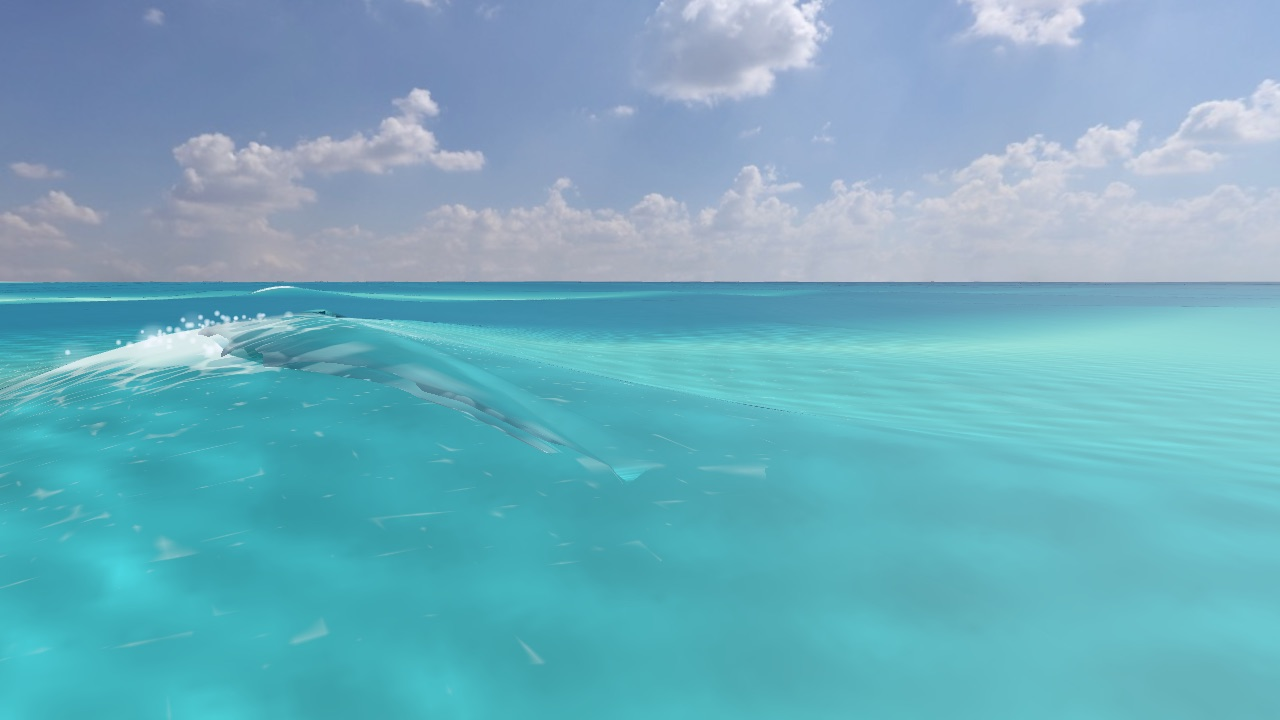
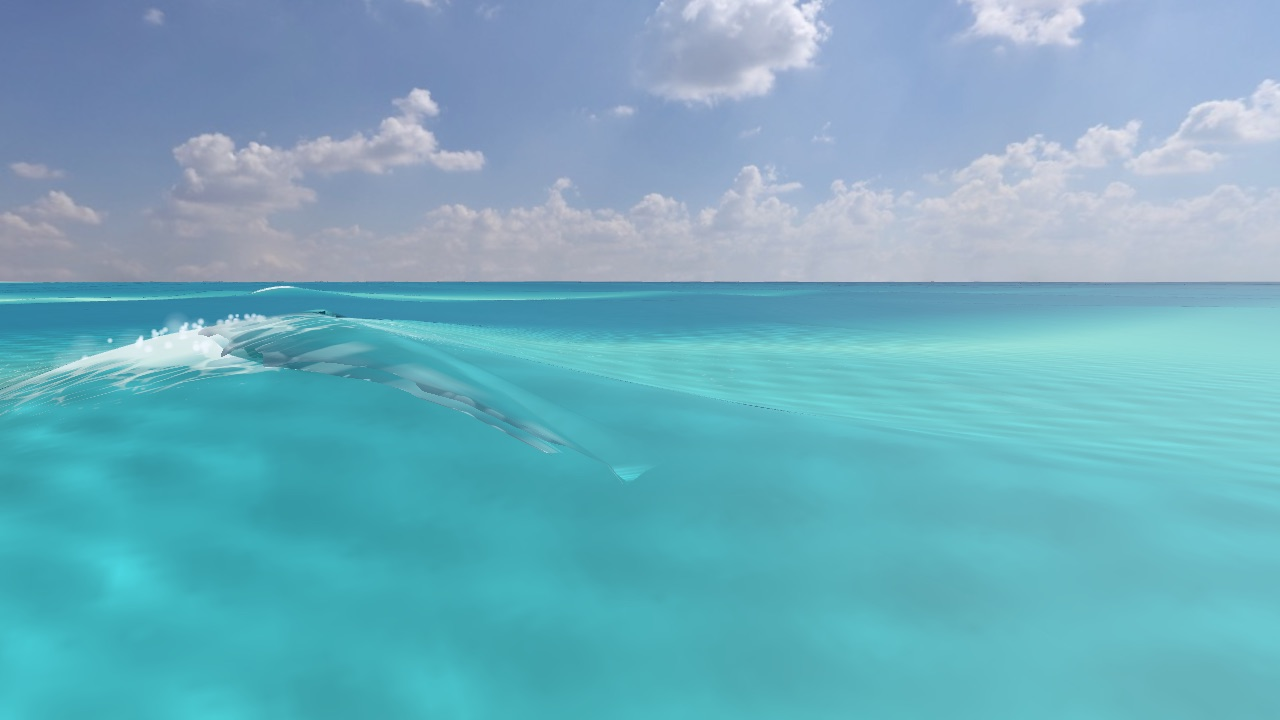
docs: the spilling lip's round 3: a clean shoulder at Big, new stills and strip

diff --git a/docs/research/canyon-lip-2026-10-11/README.md b/docs/research/canyon-lip-2026-10-11/README.md
@@ -2,17 +2,17 @@
 
 The owner's playtest of 2026-10-11, at the Canyon: "I don't want the wave to become white then have the spilling; spilling should be like a tube animation but as a separator that the wave is breaking."
 
-What was built, on `claude/canyon-lip` (three passes: the first build, the coordinator's look pass, and round 2 after the water-physics advisor's review):
+What was built, on `claude/canyon-lip` (four passes: the first build, the coordinator's look pass, round 2 after the water-physics advisor's review, and round 3 for the shoulder at Big):
 
 - **A small rolling lip.** At each wave's spilling front the crest sharpens and its tip is thrown out and falls down the face. It runs along the crest at the S2 front's pace (the 55° peel), just behind the front's tip. Each column goes through the break's own sequence as the peel passes it.
-- **A clean shoulder ahead of it.** No whitewater is drawn ahead of the front. The drawn foam drifts shoreward and its lace lasts 6 s rather than 15 s, so the last waves' lace clears from the shoulder at Medium.
+- **A clean shoulder ahead of it.** No whitewater is drawn ahead of the front. The drawn foam drifts shoreward and its lace lasts 6 s rather than 15 s. On each wave's unbroken shoulder ahead of its front, the drawn lace is held back (round 3), so the shoulder is clean green water at Medium and Big.
 - **White that trails the break.** No white is drawn on a column's face until its curl lands. A bright patch then shows where it lands, with a splash of drops. The white grows down the face and reaches the face's foot 2 s later.
 
 It is **look only**. The water, the solver's breaking strength, the S2 whitewater (which feeds the air and the roar), the breaking the rider feels, the roller table (`writeTable`: push, froth drag, water entry, lens top), the aeration the rider floats in (`aerateBores` → `voidFraction`) and its turbulence, the bores the air reads, and the lip impacts (the sound and the reports) are byte for byte the same with the lip on and off. A test checks this every step over 5 s of Canyon Medium, the foam's drift and the curl's splash included. The curl collides with nothing. `heightAt` and the drawn heights are unchanged. Only the Canyon has the lip; every other spot draws exactly as before, in both looks.
 
 ## The stills
 
-Canyon, Medium swell (Hs 1.4 m, Tp 11 s, 0°, s = 150), seed 1, in the page, at sea time 133.47 s: a set wave about 2 m high peeling toward +x at the take-off. They were shot from the dev water sheet (`?inpage&waterSheet&spot=canyon&swell=medium&direction=0&spreading=150`, with `&spillingCurl=0` for the before), midday, in the Rich look unless noted. The before and after show the same wave at the same moment, from the same cameras, because the switch changes nothing felt. The after stills are round 2's.
+Canyon, Medium swell (Hs 1.4 m, Tp 11 s, 0°, s = 150), seed 1, in the page, at sea time 133.47 s: a set wave about 2 m high peeling toward +x at the take-off. They were shot from the dev water sheet (`?inpage&waterSheet&spot=canyon&swell=medium&direction=0&spreading=150`, with `&spillingCurl=0` for the before), midday, in the Rich look unless noted. The before and after show the same wave at the same moment, from the same cameras, because the switch changes nothing felt. The after stills are round 3's. The Medium motion strip is round 2's: round 3 changed only the lace on the shoulder, which was faint at Medium.
 
 | | Before (`spillingCurl` off) | After |
 | --- | --- | --- |
@@ -21,7 +21,7 @@ Canyon, Medium swell (Hs 1.4 m, Tp 11 s, 0°, s = 150), seed 1, in the page, at 
 
 - **From the beach** (after): ![](after-beach.jpg)
 - **Beside the curl, Classic look** (after): ![](after-beside-classic.jpg)
-- **Big** (`&swell=big`, sea time 201.9 s; this wave is 1.5–1.6 m high, Big's sets reach 2.5 m), beside and from the lineup: ![](after-big-beside.jpg) ![](after-big-lineup.jpg)
+- **Big** (`&swell=big`, sea time 201.89 s; this wave is 1.5–1.6 m high, Big's sets reach 2.5 m), beside and from the lineup: ![](after-big-beside.jpg) ![](after-big-lineup.jpg)
 
 **Motion strips.** 8 frames, 0.15 s apart, read left to right then down. Each is from a fixed camera beside the take-off column (x −30) as a curl passes:
 
@@ -40,10 +40,14 @@ Canyon, Medium swell (Hs 1.4 m, Tp 11 s, 0°, s = 150), seed 1, in the page, at 
   - **The tip.** The ragged tip is too small on screen to see at these distances.
   - **From the beach.** The curl is subtle: a thin lip on the crest beside the white.
   - **Classic.** It reads darker teal, with its inner side showing through.
-- **After, Big:**
-  - The curl is small beside the white patch.
-  - A lace network still covers the face and shoulder ahead of the front. The drawn foam there is 0.05–0.15 (measured): lace from the inshore bores, carried seaward by the depth-averaged return flow. The shoreward drift and the 6 s lace did not clear it at Big; they did at Medium.
+- **After, Big (round 3):**
+  - The lace network that covered the face and the water ahead of the front in round 2 is gone. The shoulder reads as clean green water: smooth, with the face's own ripples and shading, and the lip and the white patch behind the front.
+  - Behind the front, the white patch, its lace trail and the whitewater inshore are as they were.
+  - The strip shows the shoulder staying clean as the white patch spreads along the crest. It doesn't flicker or pop.
+  - The bright blotches low on the right of the strip are the sun's glints on the near water. The snapshot's drawn foam there is 0.
+  - The curl is still small beside the white patch.
   - The dark dashes in the Big stills are in the water without the curl too, so they are not the curl's.
+- **After, Medium (round 3):** nothing regressed. The lip, the landing white and the trail behind are unchanged. The few faint lace flecks left on the shoulder in round 2 are gone.
 
 ## The numbers and their sources
 
@@ -60,6 +64,7 @@ Canyon, Medium swell (Hs 1.4 m, Tp 11 s, 0°, s = 150), seed 1, in the page, at 
 | The splash | At touchdown, per column: 0.3 of the jet (`SPLASH_UP.share`), on at the breaker celerity, down at 3.2 m/s | The advisor, round 2 (about 1.0 C forward, 2.5–4 m/s down) |
 | Surface drift of the drawn foam | Q_s = 0.18 H_b² m²/s over the still depth, at most 0.4 m/s, where the still depth is under 1.3 h_b (Q_s 1.3 m²/s at Big) | Hansen & Svendsen 1984; the advisor's Q_s ≈ 1.2–1.5 m²/s at Big and 0.3–0.4 m/s |
 | Drawn lace | 6 s (the Canyon's was 15 s) | The coordinator's ruling, round 2 |
+| The shoulder held back | Along each wave's crest line, up to 30 m ahead of its front, faded in over 3 m from the front. Across shore, from 2 m behind the crest to 12 m or 5 H_b ahead of it, whichever is more, faded over 3 m at both ends. The lace fades with a 0.1 s e-folding time | The coordinator's ruling, round 3; extents set by eye and by the measurement below |
 | Streaks | Two flow-map layers half a 0.45 s period apart; scrolled along the lip at 0.4 m/s near the crest to 3.2 m/s at the tip; 0.3 m apart in world x, 1.2 m long | Surf's Up course notes p. 80; Vlachos 2010; the advisor (2–4 lip thicknesses apart, 4:1) |
 | Ragged tip | Fingers cut from the tip's last fifth, 0.45 m period in world x; the tip's froth varied with the same noise | Surf's Up's lip trains; the advisor (0.3–0.6 m) |
 | Along the crest (the stills' wave) | 0.17 s per metre (a 5.7 m/s front), curl standing over about 7 columns, the face's foot (the lens's toe) 7 m | Measured. Advisor: 0.175 s/m; 2–4 m of open curl, then about 3 m collapsing |
@@ -84,13 +89,26 @@ Canyon, Medium swell (Hs 1.4 m, Tp 11 s, 0°, s = 150), seed 1, in the page, at 
   - **The drawn air.** Rich's churn and plume show only under drawn foam, and only in columns whose curl is still young. A developed bore draws its air as before.
 - **The splash.** Each touchdown pushes a `LipImpact` (kind 1, a splash-up) into `drawnImpacts`, which only the drawn spray reads. It never enters `lipImpacts`, so the water, the foam's air, the sound and the reports never see it. Classic throws no drops from a splash-up, the rule Classic's spray has kept since G9, so the splash shows in Rich only.
 - **The foam's drift.** The foam field takes the drift on top of the current for its own departure points only. The advection stencil it records, which the aeration reuses, stays the current's: a test checks the stencils are identical with and without the drift.
-- **The crest tracker** (Wave Lab Follow, `crestTracker.ts`) reads the drawn foam from the snapshot. With the lip, the breaking edge it slides to is the white's edge, a few metres behind the curl, rather than S2's early foam. Its tests pass unchanged.
+- **The shoulder** (round 3; `SpillingCurl.clearShoulder`, called each step before the foam's own step):
+  - **Where.** For each wave, it finds the crest at the front, then follows the crest line column by column ahead of the front, taking the highest water within 2 m of the last column's crest. It stops where the water stands less than 0.3 of the front's crest height above still water: there is no shoulder there.
+  - **What it holds back.** On a band along that line, it fades the drawn foam (`dense` and `residual`) with a 0.1 s e-folding time, and zeroes the drawn whitewater, the foam's source. That source is the solver's weak breaking ahead of a front, which no onset has joined to a wave yet.
+  - **Edges.** Every edge of the band is smoothstepped over 3 m, and the fade is a decay rather than a cut, so nothing pops or flickers as the band moves.
+  - **What it leaves.** Behind each front nothing changes, so the whitewater and its lace trail are as they were.
+  - **Felt.** Nothing felt changes. The foam is drawn only, and the bores the air reads come from the felt whitewater. The felt-identity test passes with it on.
+  - **Measured.** At the take-off, the mean drawn foam on the shoulder 3–15 m ahead of each front, from 1 m behind its crest to 8 m ahead:
+    - **Medium:** 0.0000 over 83 samples, max 0.00001;
+    - **Big:** 0.0000 over 24 samples, max 0.0000;
+    - **Without the lip:** 0.22 at Medium and 0.17 at Big.
+    - The samples span 30 s of sea, taken every 8 frames.
+    - A test holds each sample at or under 0.02 at both sizes.
+- **The crest tracker** (Wave Lab Follow, `crestTracker.ts`) reads the drawn foam from the snapshot. With the lip, the breaking edge it slides to is the white's edge, a few metres behind the curl, rather than S2's early foam. The shoulder's clearing is ahead of the front, so it doesn't move that edge. Its tests pass unchanged after round 3.
 
 **Cost** (node timings on this M1 Air):
 
 - The look's step and splash: about 0.01 ms per step.
 - The snapshot's slices: about 0.03 ms (worker).
 - The foam's drift: +0.2 ms per step on the foam stage (2.26–2.30 → 2.47–2.48 ms in the page's CPU run).
+- The shoulder's clearing (round 3): 0.035 ms per step at Medium and 0.026 ms at Big.
 - Building the ribbon on the page: 0.063 ms for 20 slices and 0.164 ms at the 56-slice maximum, cheaper than the look pass (0.082 and 0.225 ms) because each slice samples the face fewer times. The ribbon is rebuilt once per snapshot, not per frame.
 - The GPU draws one mesh of at most 1,152 vertices with the water's sheet shading, plus two value-noise layers for the streaks and one for the tip. GPU cost was not measured; I estimate it as small.
 
@@ -121,12 +139,13 @@ Canyon, Medium swell (Hs 1.4 m, Tp 11 s, 0°, s = 150), seed 1, in the page, at 
   - the landing flash (0.15 s);
   - the splash's share (0.3) and fall speed (3.2 m/s).
 - **The foam's drift and lace.** The drift's flux constant (0.18) and reach (1.3 h_b), and the 6 s lace.
+- **The shoulder's band** (round 3). Its reach (30 m), its extent across shore (2 m behind the crest, 12 m or 5 H_b ahead, whichever is more), its 3 m fades, its 0.1 s e-folding time, and the 0.3 crest height where the shoulder ends.
 - **The curl's direction and the air rule.** The curl's direction is held within 30° of the shore's normal. The drawn air reaches full strength under foam 0.5 thick.
 
 ## Open checks for the owner (no rider tests were run)
 
 - **Does it read as water spilling and rolling?** It should read as a small lip thrown off the crest just behind the front, a white landing behind it, and a clean shoulder ahead, rather than a glassy awning or a shape sliding along. The motion needs judging in motion: the streaks' fall and each column's sequence can't be read from stills.
-- **The shoulder at Big.** At Big, lace from the inshore bores still covers it. Next options, in order: a stronger drawn drift where the face steepens, then holding back the residual lace on the face of a wave about to break (both look only).
+- **The shoulder** (round 3). It is now clean at Medium and Big. Check in play that the band's far edge (12 m or 5 H_b seaward of the crest, whichever is more) never shows as a line in the lace on the water beyond, and that the shoulder looks right at the Canyon's other sizes.
 - **The white's pace.** Is 2 s from touchdown to the face's foot right, and is the landing white bright enough?
 - **Classic, light and tiers.** Classic's darker teal lip, dawn and sunset light, Small, and the GPU tier.
 - **Nothing felt changed**, so the ride itself should feel exactly as before. Worth confirming on the board, since the white now arrives later than the push.

diff --git a/docs/research/water-physics/consult-log.md b/docs/research/water-physics/consult-log.md
@@ -4,6 +4,7 @@ What other sessions asked about wave shape, the advice they got and what came of
 
 | Date | Session | Question | Advice and outcome |
 | --- | --- | --- | --- |
+| 2026-10-11 | Canyon spilling lip, round 3 (lace on the shoulder at Big) | Round 2 read well at Medium, but at Big a honeycomb lace (drawn foam 0.05–0.15) still covered the face and the water ahead of the front: lace from the inshore bores, carried seaward by the return flow. The shoreward drift and the 6 s lace did not clear it. | No advisor consult. The coordinator's ruling: hold back the drawn lace on the unbroken shoulder ahead of each front, look only, with fades over a few metres and no flicker; target drawn foam ≤ 0.02 at the take-off at Medium and Big. Built (`SpillingCurl.clearShoulder`): along each wave's crest line up to 30 m ahead of its front, from 2 m behind the crest to max(12 m, 5 H_b) ahead, 3 m smoothstep edges; the drawn foam fades with a 0.1 s e-fold and the drawn whitewater source is zeroed there (unjoined weak breaking ahead of a front). Nothing felt changed (felt-identity test), other spots unchanged, crest tracker tests pass. Measured at the take-off: 0.0000 at Medium (83 samples) and Big (24), against 0.22 and 0.17 without the lip; 0.026–0.035 ms per step. Stills: docs/research/canyon-lip-2026-10-11/. |
 | 2026-10-11 | Canyon spilling lip, round 2 (look-pass review: glassy tongue, small at Big, lace on the shoulder) | What makes the falling lip read as moving; its size at Big; foam on the shoulder; its animation | Lips are laminar until touchdown (Mostert 2022); fingers and drops form on the splash (Watanabe 2005). Ranked: flow-scrolled streaks tied to world x (Surf's Up p. 80; Vlachos 2010), a ragged tip fixed in world x (Surf's Up lip trains), a splash at touchdown via LipImpact. Big: scale with H, apex ≤0.1 H; the missing 0.15–0.2 H is either a look-only face notch (owner: breaks "rider hits what's drawn") or contrast. Foam: faces converge it; nature clears it by shoreward surface drift (Hansen & Svendsen 1984; Q_s ≈ 1.2–1.5 m²/s at Big), which the depth-averaged foam lacks. Drawn drift 0.3–0.4 m/s kept out of the shared stencil, or residual 15 → 6 s. Animation: a ballistic tip instead of self-similar growth. Outcome: contrast route; drawn drift (+6 s residual if needed); Classic draws the curl (barrel/roller precedent). |
 | 2026-10-11 | Canyon spilling lip (owner playtest: white before spill) | Shape, aeration timing, along-crest separator, cheap build, why the face whitens first | Surf-scale spillers overturn (Deike 2015); P&F curl 0.10–0.20 H², 47–50°, lip ≈0.05 H; green until touchdown 0.35–0.7 s (inferred), toe over 5–8 h_b; separator = 2–4 m open curl; S2 ramp (35 % line, 5 m/s) and S3 band whiten the face in 0.2–0.3 s; ribbon from S2 age + Overturn.ts (provisional), Basilisk L15 for the decided path. Owner: look-only (push unchanged), provisional shape now, white to the foot ≈2 s after landing. |
 | 2026-10-09 | The Canyon at every size (canyon-big; docs/research/canyon-spilling-2026-10-05 §1) | Big (Hs 2.4 m at the 5 m edge, Tp 14 s) breaks on the level 3.6 m shelf: 46 % of its onsets there, 7 crests in 51 breaking 40–82 m of shore at once, some running toward −x. Which bed lets every size break on one oblique line and peel toward +x? Is a crest deepening seaward (the Wave Pool's ramp) the way? | Mead's platform limit (Mead 2000, Bingin): a platform caps the waves a spot can take. Big needs one at least 5.7 m deep (Froude similarity with Medium on 3.6 m: Hs/h about 0.41) and an edge about 7.9 m deep. A crest ramp either spreads Medium's starts with each wave's height or turns the contours back into an A-frame; a two-slope face (1:10 below 3.6 m) makes Big plunge (ξ about 1.0) and refracts Medium the same (Snell holds over a step); a deep planar face costs Medium 8–10° in a ray model. Advised a fan face: crest line 70°, the 2.8 m contour at 55–60°, 1:30 below. Outcome (3 seeds × 14 periods per size): built as advised (fan 15°, 6 m platform, 7.9 m edge, the sizes still given at 5 m depth), plus a trough behind the line (bores re-broke on the wide 1 m top). Big: 40 of 40 tracker samples toward +x at 31°, 43 of 49 starts within ±10 m, no close-out across the window (one 40 m fast section). Medium: 35 of 35 at 30°, starts on the arm 87 % (95 % before). A planar 70° face had 15 mid-arm starts in 54; the fans 4–6 |
